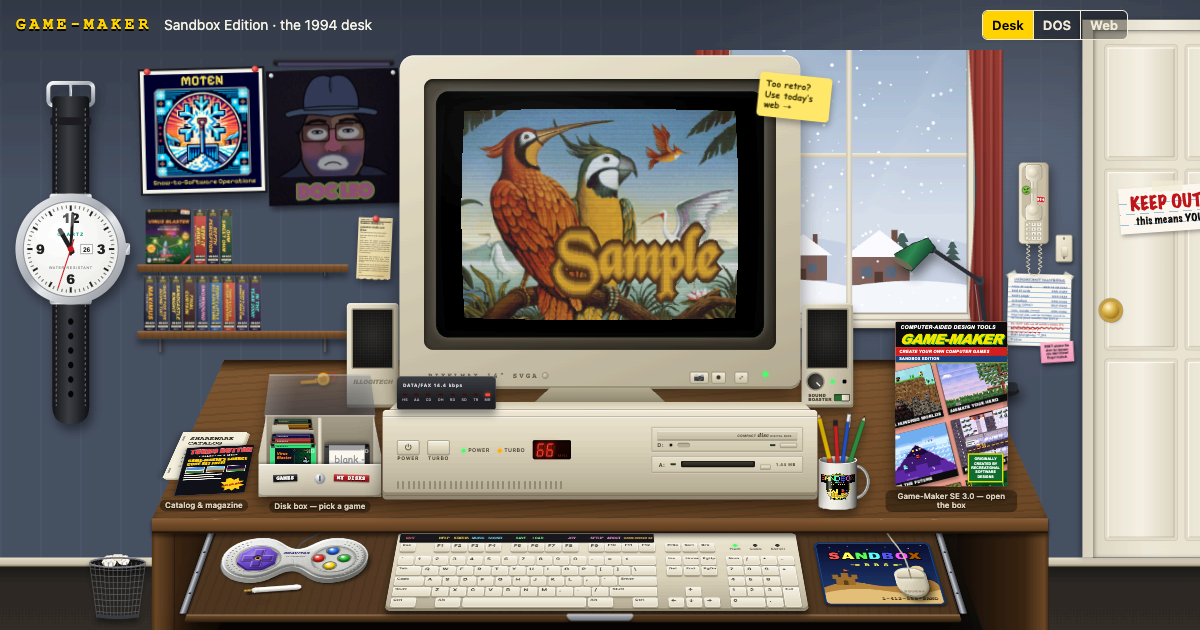
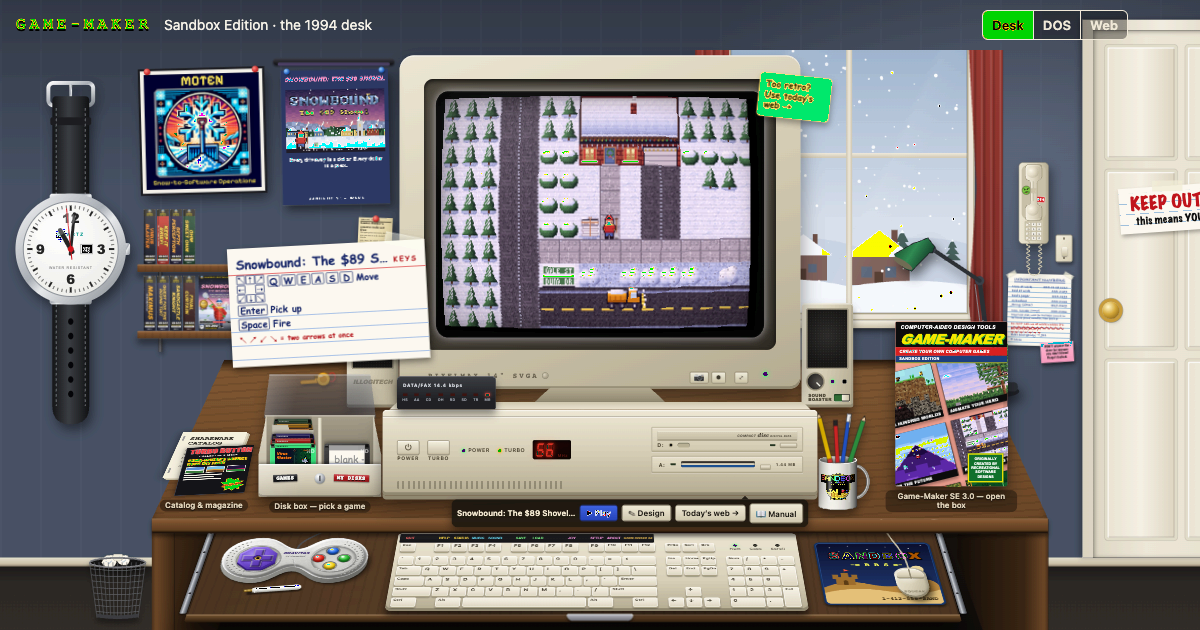
README and og-image: the desk shows Snowbound on the PC (its first street, a plow going by, its keys card and poster); the README names all three ways to use it, the DOS view included

diff --git a/README.md b/README.md
@@ -15,14 +15,15 @@ This fork is kept by Lewis Moten, who shoveled Fort Ashby's driveways in the win
 to buy Game-Maker. The desk, the BBSes and *Snowbound* come from those years: see
 [Lewis and Game-Maker](docs/history.md).
 
-![The 1994 desk by day: the PC showing Game-Maker's Sample title screen, the Doc Leo poster and shelves of Sandbox boxes on the wall, the disk box with its toy whistle, the GRAVITAS game pad on the keyboard tray, a snowy window, a wristwatch clock and a door](web/public/og-image.png)
+![The 1994 desk by day: the PC playing Snowbound's first street with a snowplow going by, Snowbound's keys card propped beside it and its poster on the wall with the Doc Leo poster, shelves of Sandbox boxes, the disk box, the game pad on the keyboard tray, a snowy window, a wristwatch clock and a door](web/public/og-image.png)
 
 ## What's in it
 
-- **Two ways to use it:** the *1994 desk*, a recreated PC with a DOS prompt, Game-Maker's
-  DOS menus and designers rebuilt from its source, a BBS to dial, and the games' boxes,
-  disks and manuals on the shelf; or *today's web* editor with point-and-click editors for
-  every part of a game.
+- **Three ways to use it** (the Desk, DOS and Web switch at the top right): the *1994 desk*,
+  a recreated PC with a DOS prompt, Game-Maker's DOS menus and designers rebuilt from its
+  source, a BBS to dial, and the games' boxes, disks and manuals on the shelf; *DOS*, the
+  same PC's screen on its own, filling the window without the desk around it; or *today's
+  web* editor with point-and-click editors for every part of a game.
 - **Help making good games:** the map editor's Level check plays each scene on the real
   engine, draws a heat map of where the hero got, marks places a player can get stuck and
   offers one-click fixes; the block, monster and sound editors show its findings as badges,
